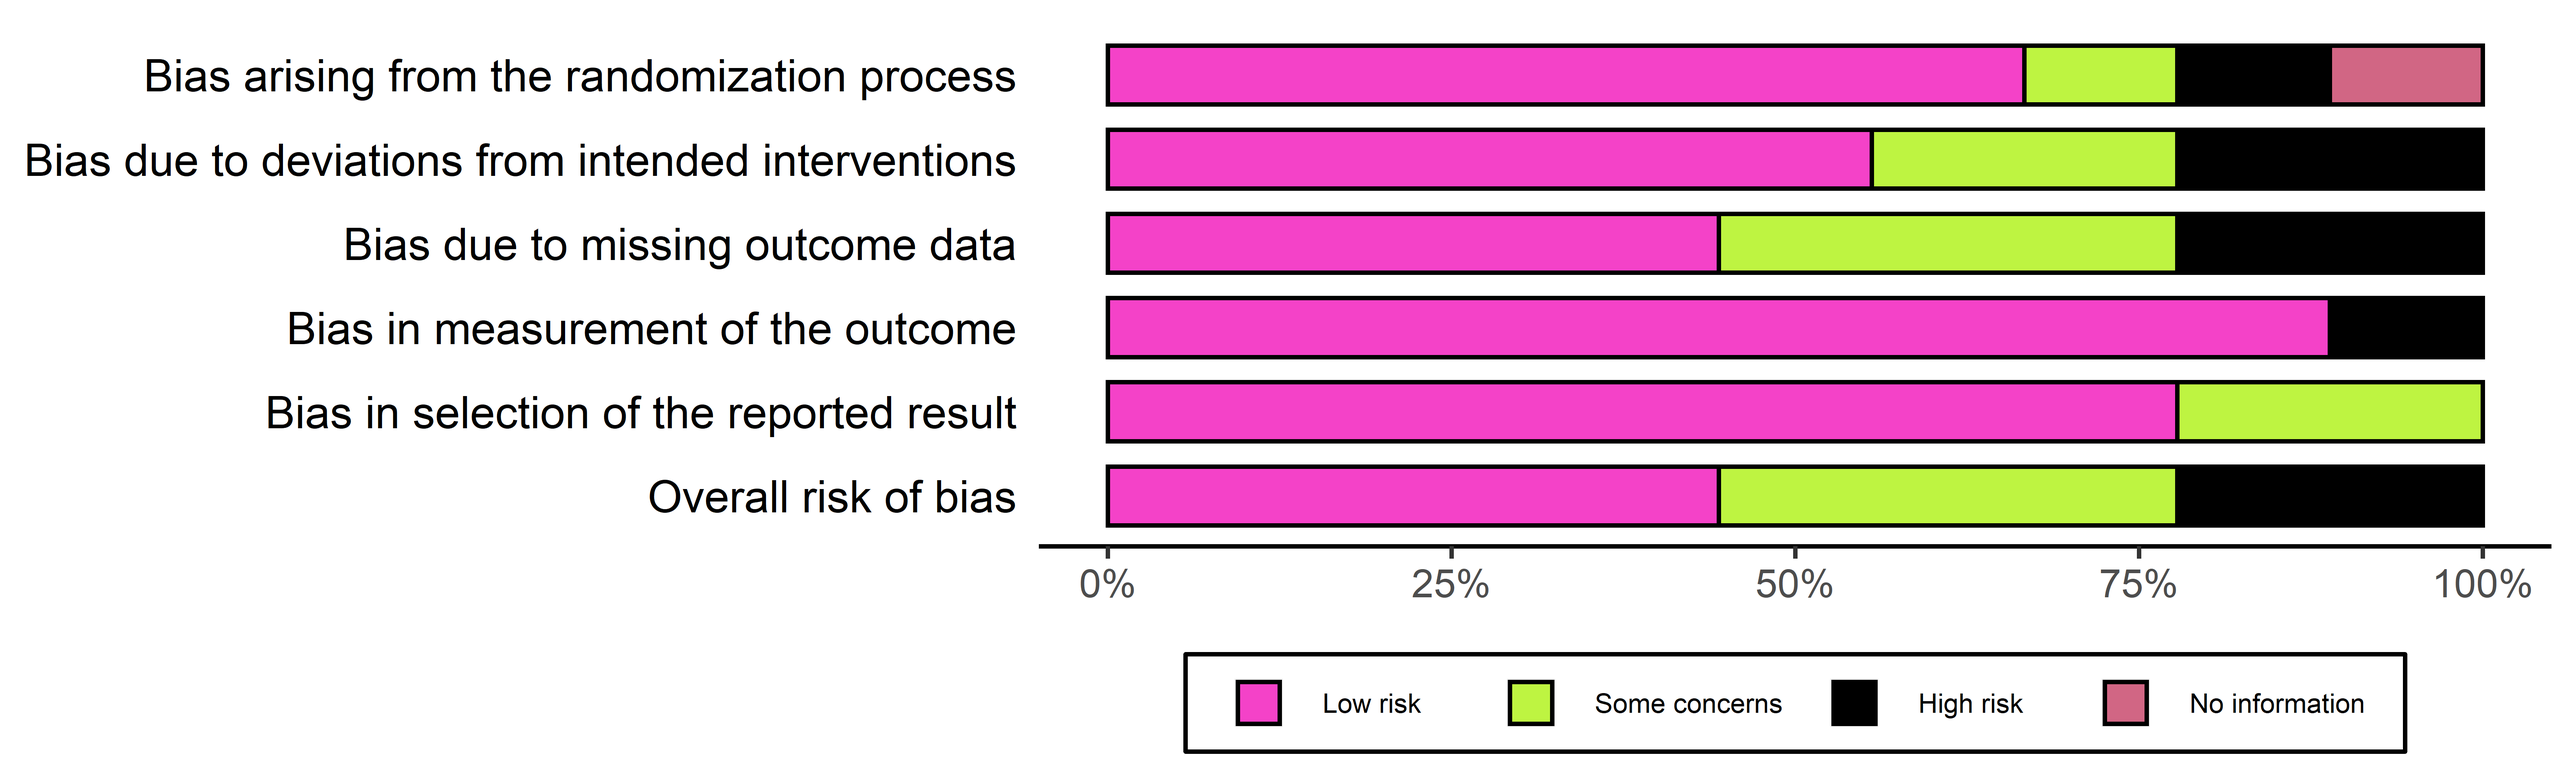
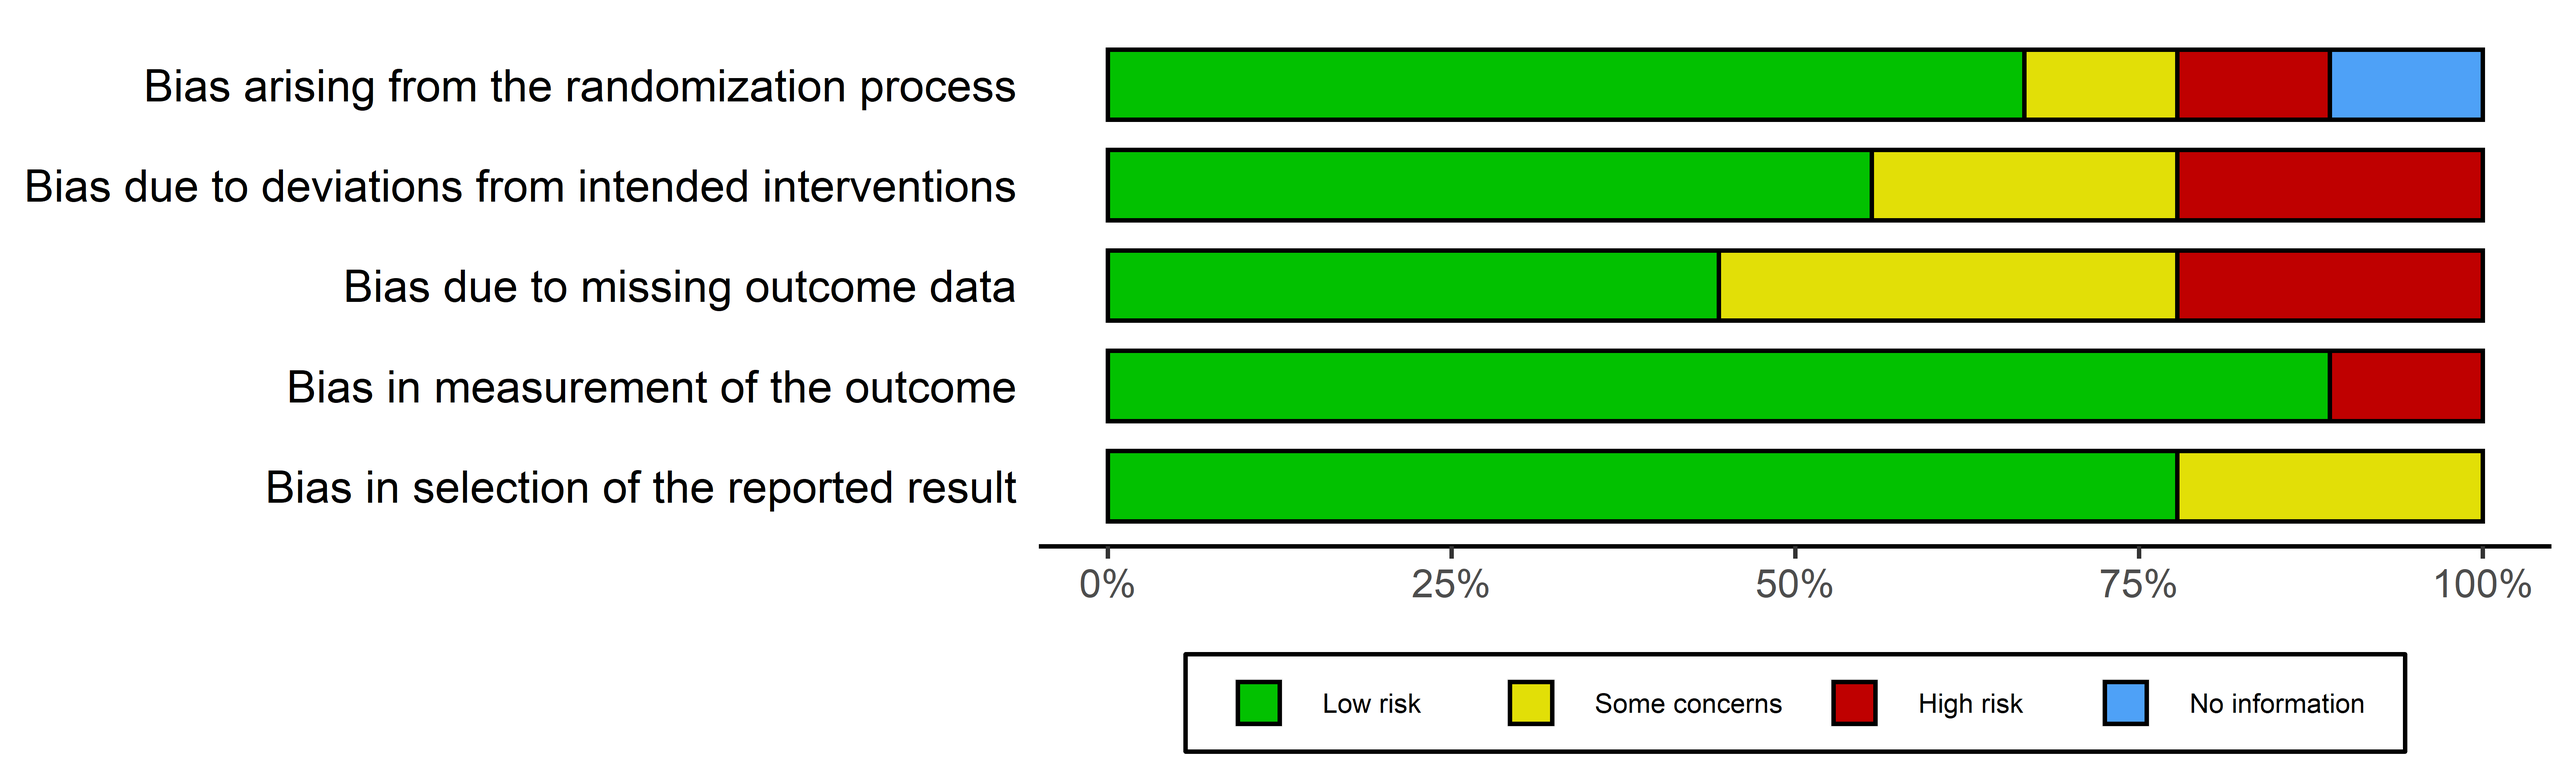
Allow rob_summary() to handle 4 judgements.
Improve documentation and testing

Closes #113

diff --git a/NEWS.md b/NEWS.md
@@ -6,7 +6,8 @@ As part of a major overhaul of the code in order to improve maintainability and 
   * The default point size for `rob_traffic_light()` has been changed from 20 to 10. This is because, following a review of published `robvis` plots, users are not changing the defaults very often and in almost all cases, a smaller default looks better. **While existing code will continue to work, the resulting plots will look different unless the `psize` argument was explicitly defined.**
   * A new logical argument, `overall`, which allows users to specify whether to include an "Overall" column in the traffic light plot, has been added to `rob_traffic_light()` (default is TRUE). In order to have consistent behaviour across the two main functions, the default of the `overall` argument in`rob_summary()` has been changed from `FALSE` to `TRUE` [I admit that I'm not sure why I set it to FALSE in the first place]. **While existing code will continue to work, the resulting plots will look different unless the `overall` argument was explicitly defined.**
   * The default the `weighted` argument for `rob_summary()` has been changed from `TRUE` to `FALSE`, both to ensure better consistency across the two main functions (`rob_traffic_light()` does not require a "Weight" variable) and to reduce a hurdle to usage among new users. **While existing code will continue to work, the resulting plots will look different unless the `weighted` argument was explicitly defined.**
-  * The `overall` argument in the "Generic" now acts slightly differently both to previous versions of the function and to the other templates. Rather than removing an additional column from the dataset if `overall = FALSE`, which doesn't make sense if ther. Now this argument should be interpreted as whether or not to highlight the last column
+  * The `overall` argument in the "Generic" now acts slightly differently both to previous versions of the function and to the other templates. Rather than removing an additional column from the dataset if `overall = FALSE`, which doesn't make sense if their data doesn't contain an overall column, it simply highlights the last column (in `rob_traffic_light()`) or bolds the last heading (in `rob_summary()`).
+  * In order to make the "Generic" template for `rob_summary()` compatible with tools that have 4 levels of judgement (e.g. the ROBINS-I tool), users must now specify a name for all levels if using the `judgement_labels` argument of `rob_summary()`. **Existing code that uses the `judgement_labels` argument will need to be updated.** 
   
 * Major updates
   * A template for the QUIPS tool (prognostic studies) has been added.
